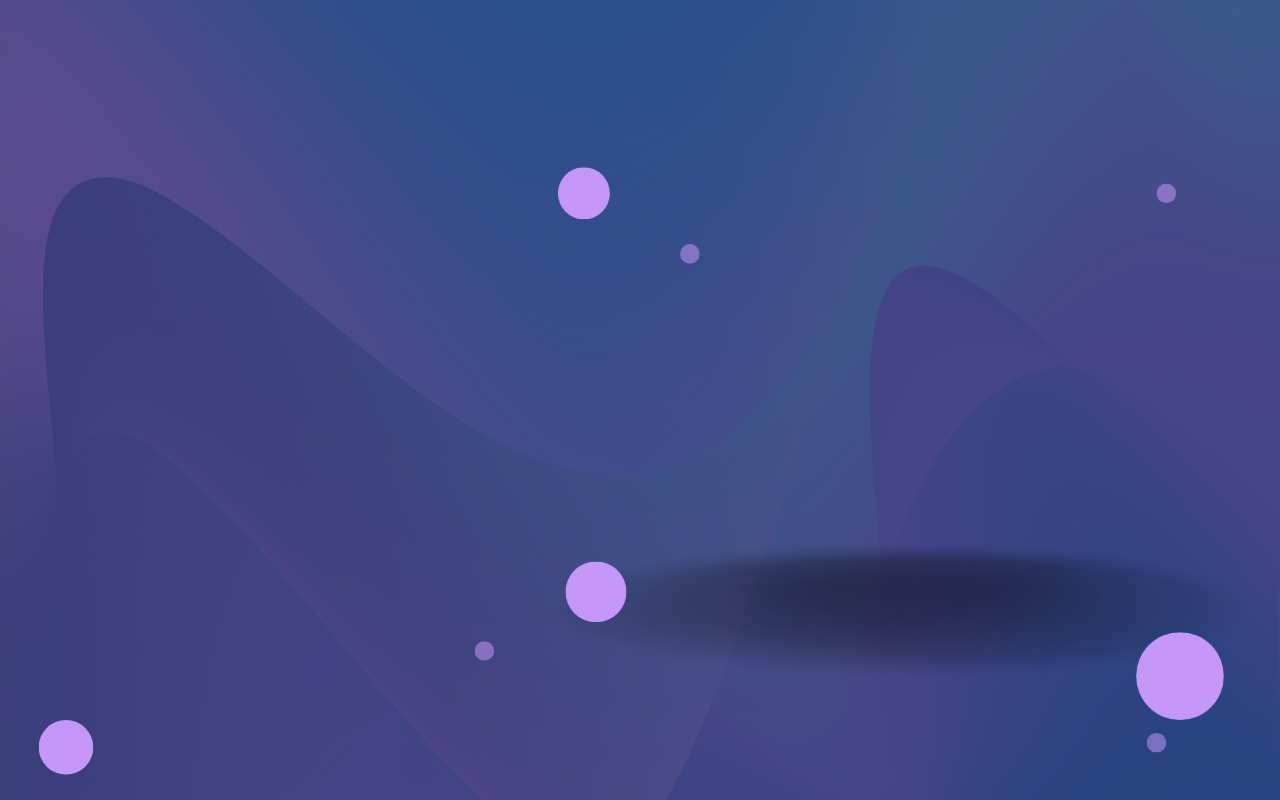
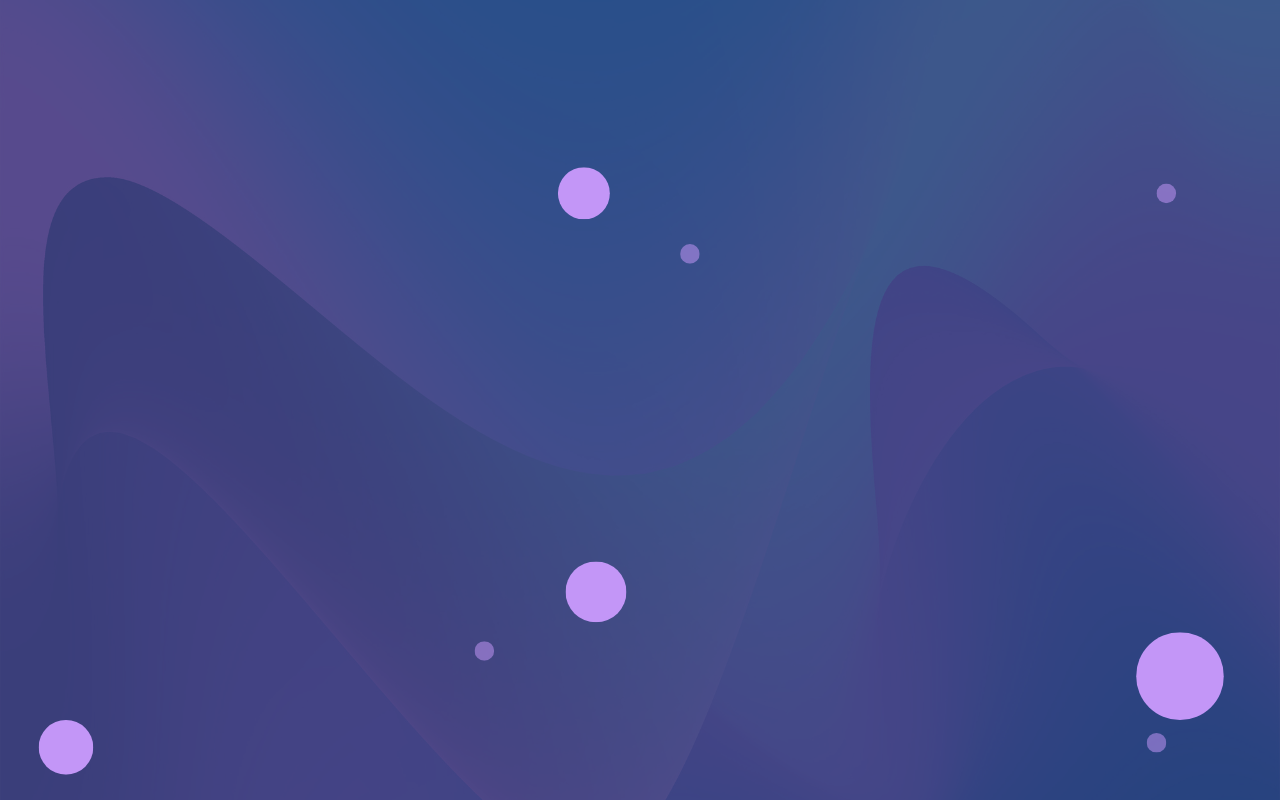
Update product page and add some products

Changed region(s): [[0.5, 0.6875, 0.875, 0.8438]]

diff --git a/src/pages/Products.tsx b/src/pages/Products.tsx
@@ -1,5 +1,76 @@
+import { useEffect, useState } from "react";
+import PageBanner from "../section/banner/PageBanner";
+
+interface Product {
+  id: number;
+  title: string;
+  description: string;
+  price: number;
+  thumbnail: string;
+}
 const Products = () => {
-  return <div>Products</div>;
+  const [products, setProducts] = useState<Product[]>([]);
+  const [loading, setLoading] = useState(true);
+  useEffect(() => {
+    const fetchProducts = async () => {
+      try {
+        const res = await fetch("https://dummyjson.com/products");
+        const data = await res.json();
+        setProducts(data.products);
+      } catch (error) {
+        console.log("Failed to fetch products:", error);
+      } finally {
+        setLoading(false);
+      }
+    };
+    fetchProducts();
+  }, []);
+  return (
+    <>
+      <PageBanner />
+      <div className="productPage py-20">
+        <div className="container mx-auto">
+          <div className="text-center">
+            <h2 className="text-white text-3xl font-bold">Products</h2>
+            <p className="text-white/60 mb-6 max-w-2xl mx-auto">
+              Discover the latest in electronics with our curated selection of
+              top-rated products. From cutting-edge gadgets to essential
+              accessories, find everything you need to stay connected and
+              entertained. Explore our collection and elevate your tech game!
+            </p>
+          </div>
+          <div>
+            {loading ? (
+              <p className="text-center">Loading...</p>
+            ) : (
+              <div className="grid grid-cols-1 sm:grid-cols-2 md:grid-cols-3 lg:grid-cols-4 gap-6">
+                {products.map((product) => (
+                  <div
+                    key={product.id}
+                    className="p-4 rounded-2xl shadow hover:shadow-lg transition bg-blue-950/50 backdrop-blur-md"
+                  >
+                    <img
+                      src={product.thumbnail}
+                      alt={product.title}
+                      className="w-full h-40 object-contain mb-4 rounded"
+                    />
+                    <h3 className="text-lg font-semibold">{product.title}</h3>
+                    <p className="text-white/75 py-2 text-sm">
+                      {product.description}
+                    </p>
+                    <p className="text-white font-bold">${product.price}</p>
+                    <button className="bg-blue-950 text-white py-2 px-4 rounded mt-4 hover:bg-blue-700 transition">
+                      Add to Cart
+                    </button>
+                  </div>
+                ))}
+              </div>
+            )}
+          </div>
+        </div>
+      </div>
+    </>
+  );
 };
 
 export default Products;

diff --git a/src/section/ElectronicsProducts.tsx b/src/section/ElectronicsProducts.tsx
@@ -1,0 +1,77 @@
+import { useEffect, useState } from "react";
+
+interface Product {
+  id: number;
+  title: string;
+  description: string;
+  price: number;
+  thumbnail: string;
+}
+
+const ElectronicsProducts = () => {
+  const [products, setProducts] = useState<Product[]>([]);
+  const [loading, setLoading] = useState(true);
+
+  useEffect(() => {
+    const fetchWatches = async () => {
+      try {
+        const res = await fetch("https://dummyjson.com/products");
+        const data = await res.json();
+        setProducts(data.products);
+      } catch (error) {
+        console.error("Failed to fetch watch products:", error);
+      } finally {
+        setLoading(false);
+      }
+    };
+
+    fetchWatches();
+  }, []);
+
+  return (
+    <section className="elProduct bg-white py-20">
+      <div className="container mx-auto">
+        <div>
+          <h2 className="text-3xl text-blue-950 font-bold text-center mb-3">
+            Top Electronics
+          </h2>
+          <p className="text-center text-gray-600 mb-6 max-w-2xl mx-auto">
+            Discover the latest in electronics with our curated selection of
+            top-rated products. From cutting-edge gadgets to essential
+            accessories, find everything you need to stay connected and
+            entertained. Explore our collection and elevate your tech game!
+          </p>
+        </div>
+
+        {loading ? (
+          <p className="text-center">Loading...</p>
+        ) : (
+          <div className="grid grid-cols-1 sm:grid-cols-2 md:grid-cols-3 lg:grid-cols-4 gap-6">
+            {products.slice(0, 8).map((product) => (
+              <div
+                key={product.id}
+                className="bg-white p-4 rounded shadow hover:shadow-lg transition"
+              >
+                <img
+                  src={product.thumbnail}
+                  alt={product.title}
+                  className="w-full h-40 object-contain mb-4 rounded"
+                />
+                <h3 className="text-lg font-semibold">{product.title}</h3>
+                <p className="text-blue-800 font-bold">${product.price}</p>
+                <p className="text-sm text-gray-600 mt-1 line-clamp-2">
+                  {product.description}
+                </p>
+                <button className="mt-4 bg-blue-950 text-white px-4 py-2 rounded hover:bg-blue-900 transition">
+                  Add to Cart
+                </button>
+              </div>
+            ))}
+          </div>
+        )}
+      </div>
+    </section>
+  );
+};
+
+export default ElectronicsProducts;

diff --git a/src/section/Features.tsx b/src/section/Features.tsx
@@ -1,0 +1,50 @@
+import { FaBolt, FaShieldAlt, FaThumbsUp } from "react-icons/fa";
+const Features = () => {
+  return (
+    <section className="py-16 bg-gray-100">
+      <div className="max-w-7xl mx-auto px-4 text-center">
+        <h2 className="text-3xl text-gray-600 font-bold mb-4">
+          Our Key Features
+        </h2>
+        <p className="text-gray-600 mb-12">
+          We provide powerful solutions to boost your productivity and user
+          experience.
+        </p>
+
+        <div className="grid grid-cols-1 sm:grid-cols-2 md:grid-cols-3 gap-8">
+          {/* Feature 1 */}
+          <div className="bg-white p-6 rounded-lg shadow hover:shadow-lg transition">
+            <FaBolt className="text-4xl text-blue-600 mx-auto mb-4" />
+            <h3 className="text-xl font-semibold mb-2">Fast Performance</h3>
+            <p className="text-gray-600">
+              Our app is optimized for speed to keep your workflow smooth and
+              efficient.
+            </p>
+          </div>
+
+          {/* Feature 2 */}
+          <div className="bg-white p-6 rounded-lg shadow hover:shadow-lg transition">
+            <FaShieldAlt className="text-4xl text-blue-600 mx-auto mb-4" />
+            <h3 className="text-xl font-semibold mb-2">Secure Platform</h3>
+            <p className="text-gray-600">
+              Your data is protected with top-level security measures and
+              encryption.
+            </p>
+          </div>
+
+          {/* Feature 3 */}
+          <div className="bg-white p-6 rounded-lg shadow hover:shadow-lg transition">
+            <FaThumbsUp className="text-4xl text-blue-600 mx-auto mb-4" />
+            <h3 className="text-xl font-semibold mb-2">User Friendly</h3>
+            <p className="text-gray-600">
+              Intuitive and responsive design ensures a seamless user
+              experience.
+            </p>
+          </div>
+        </div>
+      </div>
+    </section>
+  );
+};
+
+export default Features;

diff --git a/src/section/About.tsx b/src/section/About.tsx
@@ -1,0 +1,42 @@
+import { Link } from "react-router-dom";
+import AboutThumb from "../assets/about-thumb.svg";
+const About = () => {
+  return (
+    <section className="py-16 bg-[#2f356d]">
+      <div className="container mx-auto">
+        <h2 className="text-3xl font-bold mb-4 text-center">
+          About Smart Bazaar
+        </h2>
+        <div className="mx-auto px-4 flex flex-col md:flex-row items-center gap-10">
+          <div className="md:w-1/2">
+            <img
+              src={AboutThumb}
+              alt="About illustration"
+              className="w-full rounded-lg shadow"
+            />
+          </div>
+          <div className="md:w-1/2">
+            <h2 className="text-3xl  font-bold mb-4">
+              Welcome to Smart Bazaar
+            </h2>
+            <p className=" mb-6">
+              Smart Bazaar is your trusted destination for smart shopping. We
+              bring you a wide range of quality products at unbeatable prices —
+              all in one place. Whether you're looking for the latest gadgets,
+              daily essentials, or trendy fashion, Smart Bazaar is here to make
+              your shopping experience smoother, faster, and smarter.
+            </p>
+            <Link
+              to="/products"
+              className="bg-white rounded-lg py-2 px-6 text-blue-950 font-bold"
+            >
+              Explore Now
+            </Link>
+          </div>
+        </div>
+      </div>
+    </section>
+  );
+};
+
+export default About;

diff --git a/src/section/banner/Banner.tsx b/src/section/banner/Banner.tsx
@@ -3,19 +3,19 @@ import BannerThumb from "../../assets/heat-phone.png";
 const Banner = () => {
   return (
     <section className="banner_area">
-      <div className="container mx-auto">
-        <div className="flex justify-center items-center gap-4 py-6">
+      <div className="container mx-auto flex items-center justify-center">
+        <div className="flex justify-between items-center py-6 gap-10">
           <div className="text-white p-4">
             <h1 className="text-6xl font-bold">
               Louder & <br /> More Clearly
             </h1>
-            <p className="mt-6 text-2xl pb-8">
+            <p className="mt-6 text-2xl pb-10">
               With the latest technology that <br /> produces clearer sound and
               louder bass.
             </p>
             <Link
-              to="/"
-              className="bg-white rounded-lg py-3 px-8 text-blue-950 font-bold"
+              to="/products"
+              className="bg-white rounded-lg py-3 px-8 text-blue-950 font-bold inline-block"
             >
               See Details
             </Link>

diff --git a/src/components/Header.tsx b/src/components/Header.tsx
@@ -1,8 +1,26 @@
+import { useEffect, useState } from "react";
 import { RiShoppingCartLine } from "react-icons/ri";
 import { Link } from "react-router-dom";
 const Header = () => {
+  const [scrollY, setScrollY] = useState(0);
+
+  useEffect(() => {
+    const handleScroll = () => {
+      setScrollY(window.scrollY);
+    };
+
+    window.addEventListener("scroll", handleScroll);
+
+    return () => {
+      window.removeEventListener("scroll", handleScroll);
+    };
+  }, []);
+  const headerClass = scrollY > 0 ? "bg-[#2f356d]" : "bg-transparent";
+
   return (
-    <header>
+    <header
+      className={`fixed top-0 left-0 w-full z-50 transition-all duration-300 ${headerClass}`}
+    >
       <div className="container mx-auto">
         <div className="flex items-center justify-between gap-4 py-6">
           <div className="logo">

diff --git a/src/section/banner/PageBanner.tsx b/src/section/banner/PageBanner.tsx
@@ -1,0 +1,21 @@
+const PageBanner = () => {
+  return (
+    <section className="page_banner">
+      <div className="container mx-auto">
+        <div className="page_banner_content">
+          <h2 className="text-3xl text-white font-bold text-center mb-3">
+            Welcome to Our Store
+          </h2>
+          <p className="text-center text-white/60 mb-6 max-w-2xl mx-auto">
+            Discover the latest in electronics with our curated selection of
+            top-rated products. From cutting-edge gadgets to essential
+            accessories, find everything you need to stay connected and
+            entertained. Explore our collection and elevate your tech game!
+          </p>
+        </div>
+      </div>
+    </section>
+  );
+};
+
+export default PageBanner;

diff --git a/src/index.css b/src/index.css
@@ -5,7 +5,7 @@ body {
 }
 
 img {
-  height: 100%;
+  max-height: 100%;
   width: 100%;
   object-fit: contain;
 }
@@ -45,8 +45,7 @@ header {
   top: 0;
   left: 0;
   width: 100%;
-  height: 100px;
-  background: transparent;
+  height: 90px;
   z-index: 100;
 }
 
@@ -56,6 +55,18 @@ header {
   min-height: 100vh;
   background-repeat: no-repeat;
   background-position: center;
+  background-size: cover;
+  padding-bottom: 80px;
+  display: flex;
+  justify-content: center;
+  align-items: center;
+}
+
+.page_banner {
+  padding-top: 150px;
+  background-image: url("./assets/banner.png");
+  background-repeat: no-repeat;
+  background-position: center center;
   background-size: cover;
   padding-bottom: 80px;
 }

diff --git a/src/routes/routes.tsx b/src/routes/routes.tsx
@@ -1,6 +1,5 @@
 import { createBrowserRouter } from "react-router";
 
-import Blogs from "../pages/Blogs";
 import Home from "../pages/Home";
 import Products from "../pages/Products";
 import Root from "../pages/Root";
@@ -14,7 +13,6 @@ const router = createBrowserRouter([
       { index: true, Component: Home },
       { path: "products", Component: Products },
       { path: "voucher", Component: Voucher },
-      { path: "blogs", Component: Blogs },
     ],
   },
 ]);

diff --git a/src/pages/Home.tsx b/src/pages/Home.tsx
@@ -1,9 +1,15 @@
+import About from "../section/About";
 import Banner from "../section/banner/Banner";
+import ElectronicsProducts from "../section/ElectronicsProducts";
+import Features from "../section/Features";
 
 const Home = () => {
   return (
     <>
       <Banner />
+      <Features />
+      <About />
+      <ElectronicsProducts />
     </>
   );
 };
